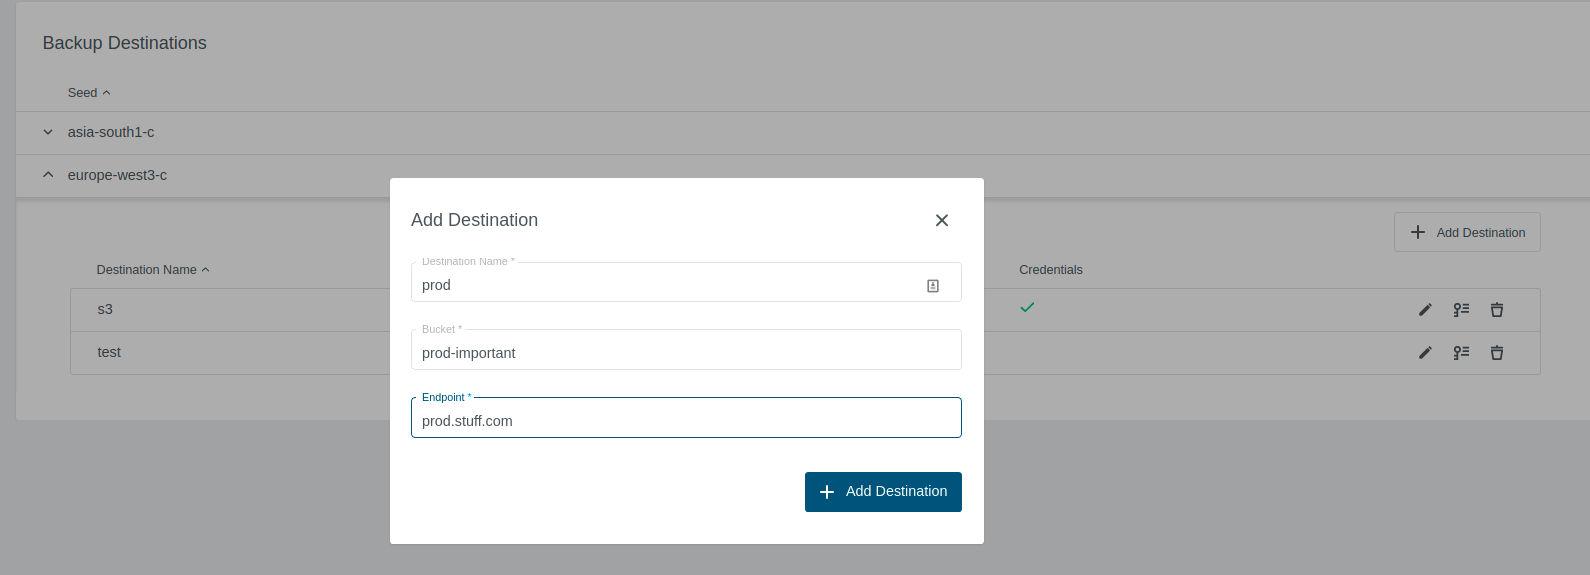
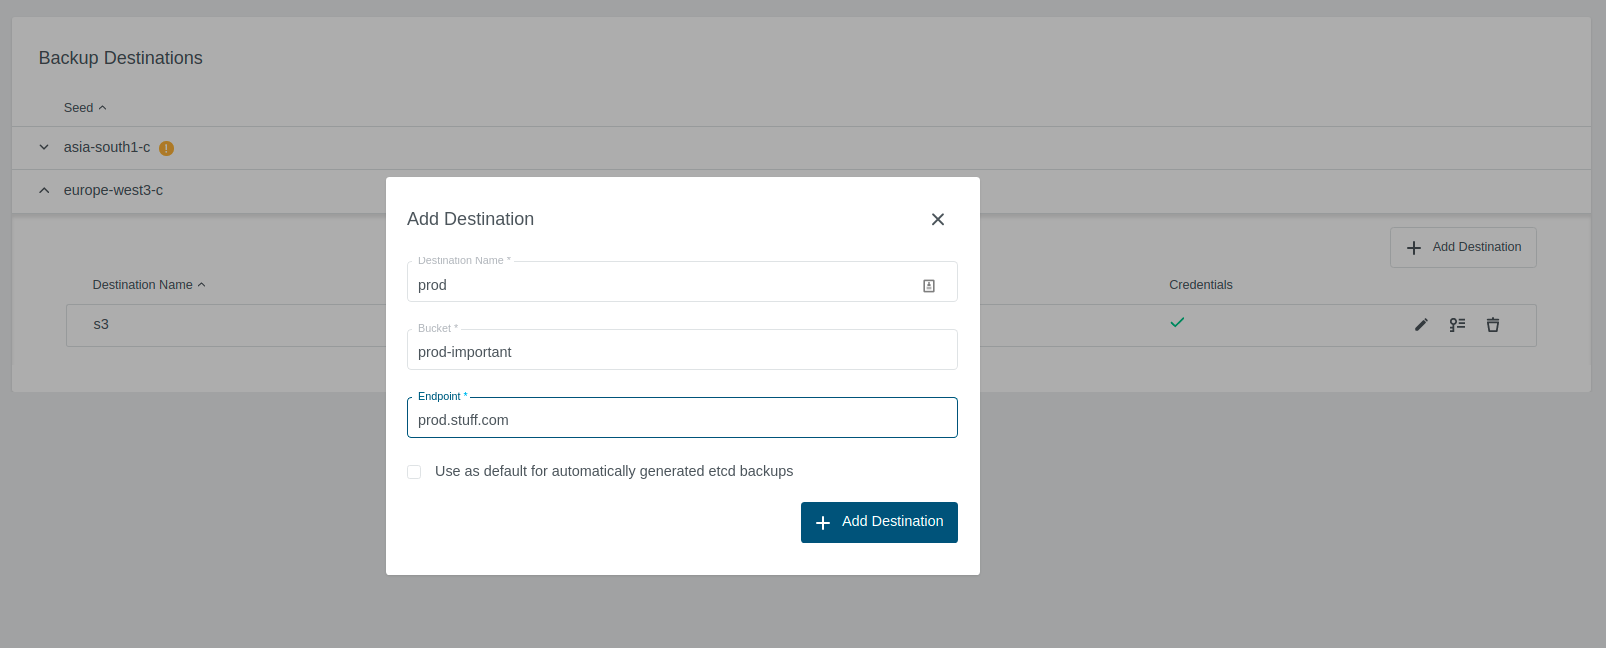
default backup dest

diff --git a/content/kubermatic/master/tutorials_howtos/administration/admin_panel/backup_buckets/_index.en.md b/content/kubermatic/master/tutorials_howtos/administration/admin_panel/backup_buckets/_index.en.md
@@ -48,10 +48,10 @@ For security reasons, the API/UI does not offer a way to get the current credent
 To see how to make backups and restore your cluster, check the [Etcd Backup and Restore Tutorial]({{< ref "../../../etcd_backups" >}}).
 
 
-### Default Backup Destination
+### Enforcing default backups
 
-It is also possible to set a default backup destination. When set, it creates a default EtcdBackupConfig for all the
-user clusters in the Seed. It has to be a destination that is present in the backup destination list for that Seed.
+It is also possible to enforce default backups for each cluster in a Seed. By setting a default destination, a default EtcdBackupConfig
+is created for all the user clusters in the Seed. It has to be a destination that is present in the backup destination list for that Seed.
 
 Example Seed with default destination:
 ```yaml
@@ -79,7 +79,11 @@ Default EtcdBackupConfig that is created:
 ...
 ```
 
-Removing the `defaultDestination` will delete all default backups from all Seed user clusters.
+![Set Default Destination](/img/kubermatic/master/tutorials/backups/set_backup_dest_as_default.png?classes=shadow,border "Set Backup Destination as Default")
+
+{{% notice warning %}}
+Removing the default destination results in the termination of all default backups (Tip: to retain existing backups you can overwrite the default destination instead)
+{{% /notice %}}
 
 {{% notice note %}}
 For users already using the backups introduced in 2.18, when only one backup bucket and endpoint was available,
